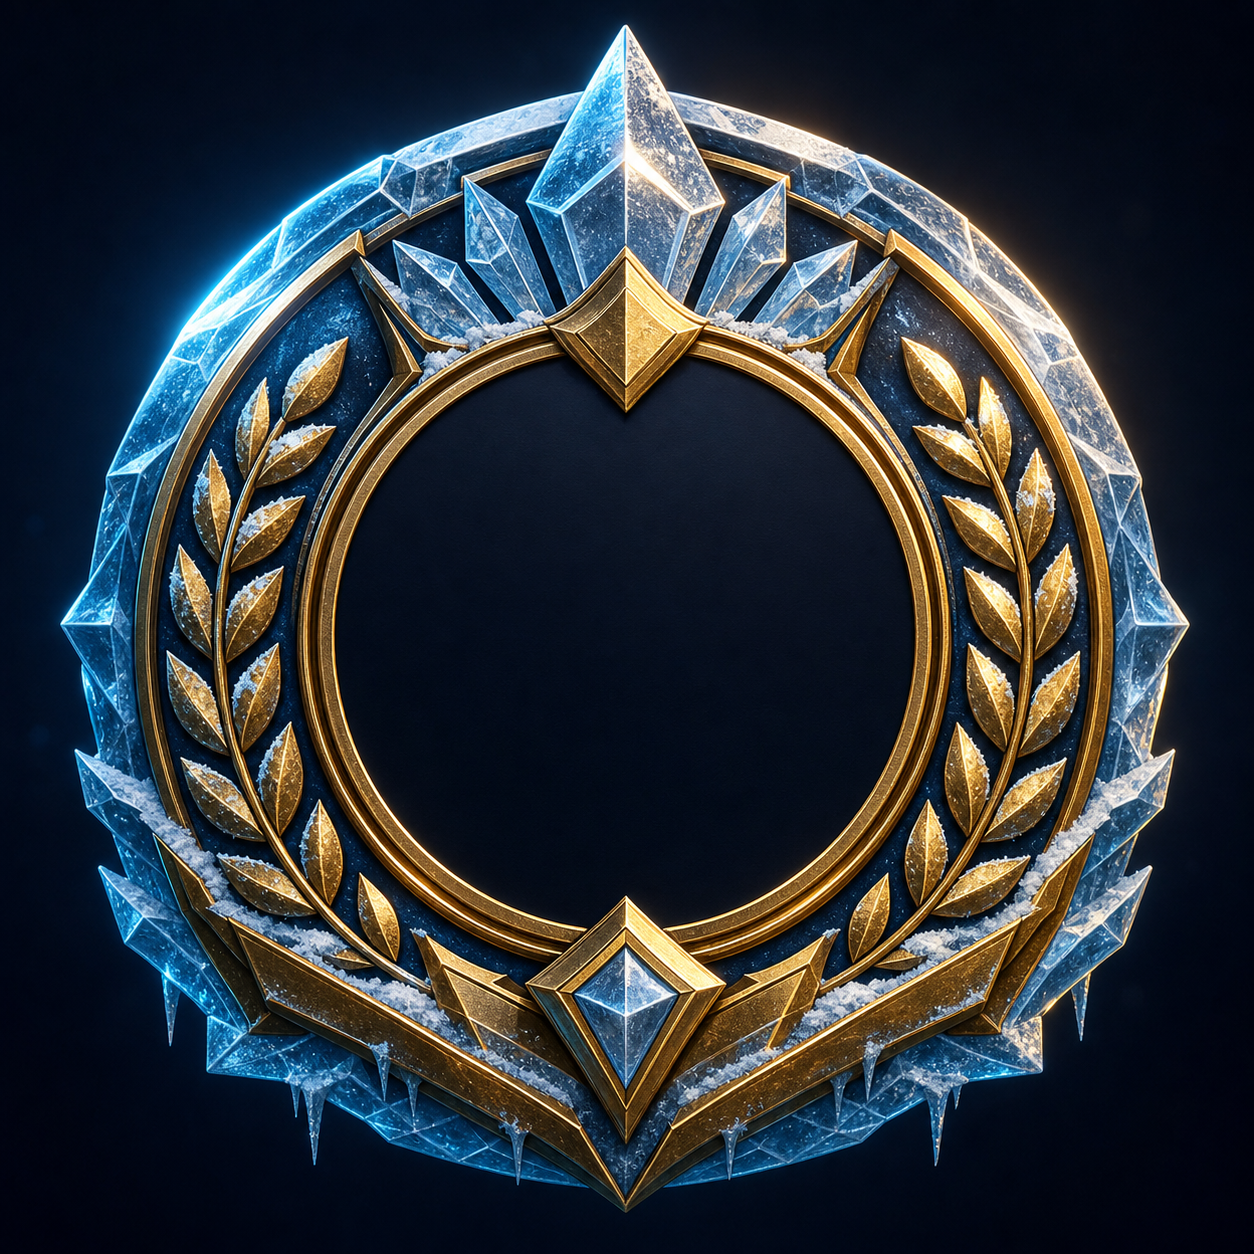
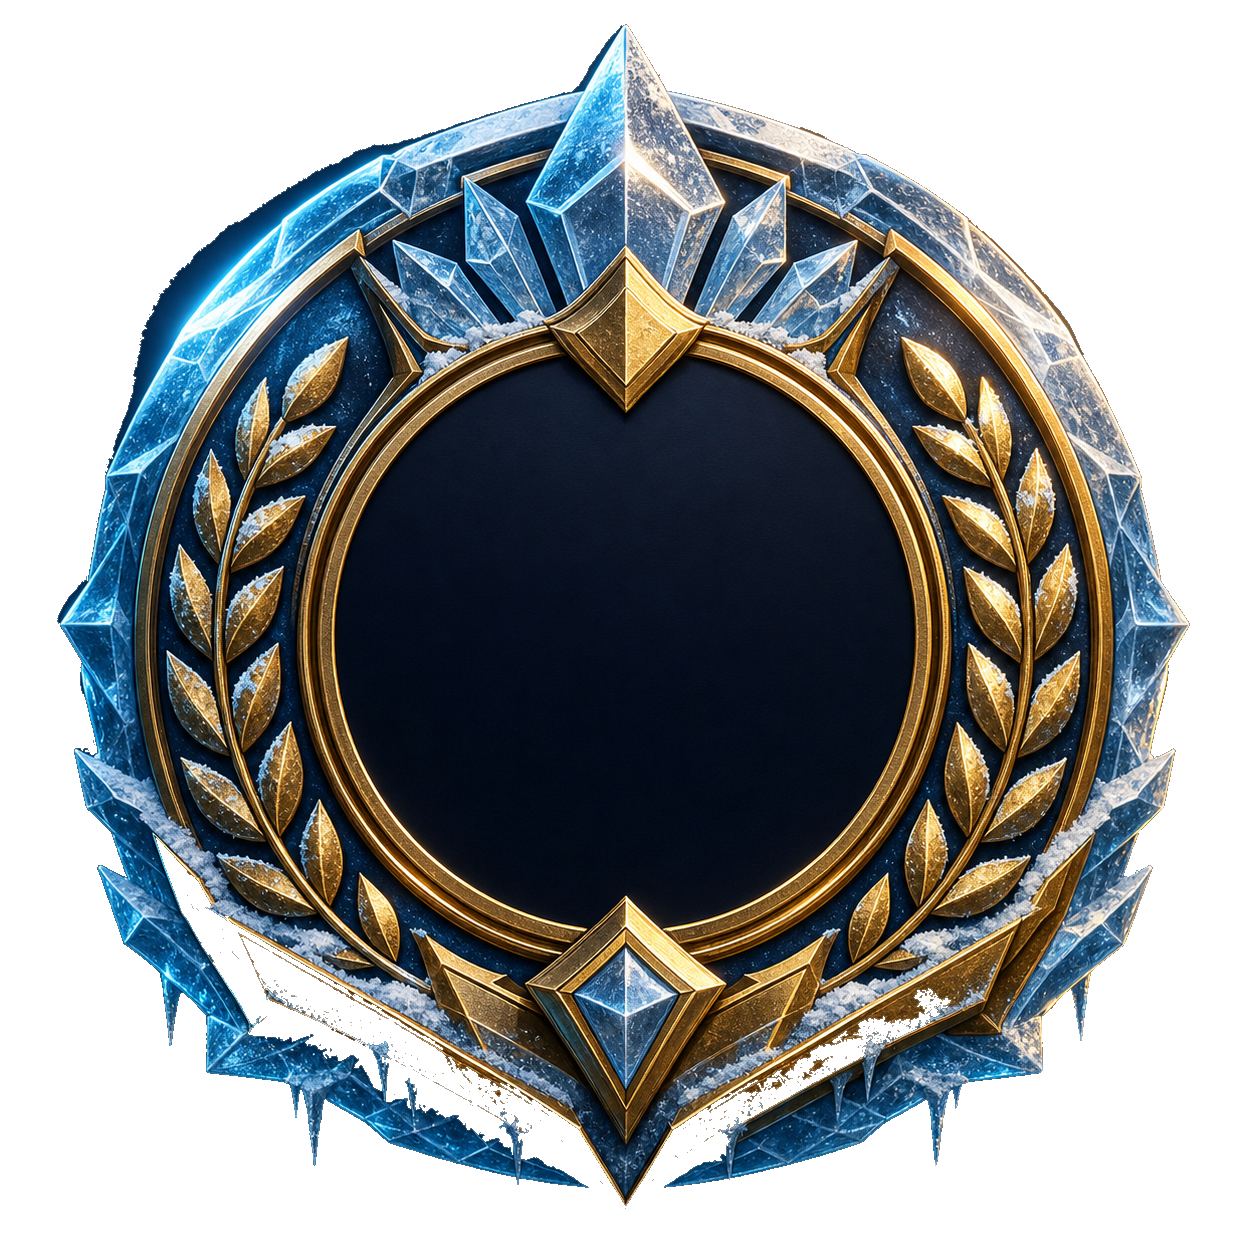
Polish public copy and medallion transparency

diff --git a/index.html b/index.html
@@ -3,10 +3,10 @@
   <head>
     <meta charset="utf-8" />
     <meta name="viewport" content="width=device-width, initial-scale=1" />
-    <title>Grab2Win | Wisconsin's Ice Climbers Specialist</title>
-    <meta
-      name="description"
-      content="A high-energy fan site celebrating Grab2Win, Wisconsin's Ice Climbers specialist and Melee Magazine Wisconsin Edition 2025 No. 1 debut."
+      <title>Grab2Win | Wisconsin's Ice Climbers Specialist</title>
+      <meta
+        name="description"
+        content="Celebrating Grab2Win, Wisconsin's Ice Climbers specialist and Melee Magazine Wisconsin Edition 2025 No. 1 debut."
     />
     <meta property="og:title" content="Grab2Win | Wisconsin's Ice Climbers Specialist" />
     <meta
@@ -30,7 +30,6 @@
         <a href="#rank">No. 1</a>
         <a href="#resume">Resume</a>
         <a href="#film">Film</a>
-        <a href="#community">Scene</a>
       </nav>
     </header>
 
@@ -76,8 +75,8 @@
           <h2 id="rank-title">Wisconsin's No. 1 debut.</h2>
           <p>
             Melee Magazine Wisconsin Edition 2025 declared Grab2Win No. 1 in
-            the state, giving the site a clear local headline to pair with the
-            public tournament record.
+            the state, pairing local recognition with a growing national
+            tournament record.
           </p>
         </div>
         <div class="magazine-layout">
@@ -98,7 +97,7 @@
               <strong>Ice Climbers</strong>
             </div>
             <div>
-              <span>Public wins list</span>
+              <span>Documented wins</span>
               <strong>Chango, DannyPhantom, Majersk, Peanutphobia</strong>
             </div>
           </div>
@@ -143,7 +142,7 @@
           <p class="eyebrow">Public Resume</p>
           <h2 id="resume-title">The bracket trail keeps expanding.</h2>
           <p>
-            This pass adds newer and deeper public mentions from SmashWiki,
+            Newer and deeper public mentions from SmashWiki,
             Liquipedia, EventHubs, Melee Stats, and start.gg-indexed brackets.
           </p>
         </div>
@@ -218,58 +217,16 @@
           <p class="eyebrow">Match Film</p>
           <h2 id="film-title">Put the punish game on the page.</h2>
           <p>
-            Verified Cream City Convergence 2025 VODs are embedded directly.
-            Riptide VOD cards remain linked until exact YouTube IDs are confirmed.
+            Verified Cream City Convergence 2025 and Riptide 2023 VODs are
+            embedded directly.
           </p>
         </div>
         <div class="video-grid" data-video-grid aria-live="polite"></div>
       </section>
-
-      <section class="section community" id="community" aria-labelledby="community-title">
-        <div class="community-copy">
-          <p class="eyebrow">Scene</p>
-          <h2 id="community-title">Competitive identity, community roots.</h2>
-          <p>
-            Smash notoriety is built in venue rooms, long drives, seeded pools,
-            friendlies, VOD review, and the names people remember after bracket.
-            Grab2Win has the rare combination a personal site needs: a clear tag,
-            a recognizable character, a Wisconsin story, and national receipts.
-          </p>
-        </div>
-        <div class="community-list" role="list">
-          <article role="listitem">
-            <h3>Wisconsin first</h3>
-            <p>Built around the state ranking and Midwest scene, not generic esports copy.</p>
-          </article>
-          <article role="listitem">
-            <h3>Travel log ready</h3>
-            <p>The design can absorb Tokyo photos, travel dates, and tournament captions next.</p>
-          </article>
-          <article role="listitem">
-            <h3>Video forward</h3>
-            <p>The match-film module supports real embeds, linked VODs, and future highlight reels.</p>
-          </article>
-        </div>
-      </section>
-
-      <section class="section sources" aria-labelledby="sources-title">
-        <div class="section-heading">
-          <p class="eyebrow">Receipts</p>
-          <h2 id="sources-title">Sources used in this pass.</h2>
-        </div>
-        <div class="source-row" aria-label="Source links">
-          <a href="https://www.ssbwiki.com/Smasher:Grab2Win">SmashWiki profile</a>
-          <a href="https://liquipedia.net/smash/Cream_City_Convergence/2024/Melee">Cream City 2024</a>
-          <a href="https://liquipedia.net/smash/Cream_City_Convergence/2025/Melee/Singles_Bracket">Cream City 2025 bracket</a>
-          <a href="https://meleestats.co/whens-melee-april-25-27/">Melee Stats Nouns Bowl listing</a>
-          <a href="https://www.eventhubs.com/news/2024/aug/23/cream-city-convergence-2024-results/">EventHubs Cream City results</a>
-          <a href="https://liquipedia.net/smash/Riptide/2023/Melee">Riptide 2023</a>
-        </div>
-      </section>
     </main>
 
     <footer class="site-footer">
-      <p>Grab2Win fan site concept. Super Smash Bros. and Ice Climbers are properties of Nintendo; this site uses original fan-made visuals and avoids official character art.</p>
+      <p>Independent tribute to Grab2Win. Super Smash Bros. and Ice Climbers are properties of Nintendo; this site uses original fan-made visuals and avoids official character art.</p>
     </footer>
 
     <script src="script.js"></script>

diff --git a/styles.css b/styles.css
@@ -271,8 +271,6 @@ code {
   aspect-ratio: 1;
   display: grid;
   place-items: center;
-  overflow: hidden;
-  border-radius: 50%;
   filter:
     drop-shadow(0 24px 60px rgba(0, 0, 0, 0.56))
     drop-shadow(0 0 30px rgba(51, 236, 255, 0.18));
@@ -357,8 +355,7 @@ code {
   margin-bottom: 2rem;
 }
 
-.section-heading h2,
-.community-copy h2 {
+.section-heading h2 {
   margin: 0;
   font-size: clamp(2.25rem, 5.6vw, 5.8rem);
   line-height: 0.92;
@@ -366,8 +363,7 @@ code {
   text-transform: uppercase;
 }
 
-.section-heading p,
-.community-copy p {
+.section-heading p {
   color: var(--muted);
   font-size: 1.06rem;
 }
@@ -389,8 +385,7 @@ code {
 .magazine-cover,
 .proof-stats,
 .feature-card,
-.video-card,
-.community-list article {
+.video-card {
   background: var(--panel);
   border: 1px solid var(--line);
   border-radius: 8px;
@@ -462,8 +457,7 @@ code {
 }
 
 .identity-grid,
-.video-grid,
-.community-list {
+.video-grid {
   display: grid;
   grid-template-columns: repeat(3, minmax(0, 1fr));
   gap: 1rem;
@@ -512,16 +506,14 @@ code {
 }
 
 .feature-card h3,
-.video-card h3,
-.community-list h3 {
+.video-card h3 {
   margin: 0 0 0.45rem;
   color: white;
   font-size: 1.22rem;
 }
 
 .feature-card p,
-.video-card p,
-.community-list p {
+.video-card p {
   margin: 0;
   color: var(--muted);
 }
@@ -670,44 +662,6 @@ code {
   font-weight: 850;
 }
 
-.community {
-  display: grid;
-  grid-template-columns: minmax(0, 0.8fr) minmax(18rem, 1fr);
-  gap: clamp(1.5rem, 5vw, 4rem);
-}
-
-.community-list article {
-  padding: 1.1rem;
-}
-
-.sources {
-  padding-top: 3rem;
-  background: linear-gradient(180deg, transparent, rgba(216, 251, 255, 0.04));
-}
-
-.source-row {
-  display: flex;
-  flex-wrap: wrap;
-  gap: 0.75rem;
-}
-
-.source-row a {
-  display: inline-flex;
-  min-height: 2.65rem;
-  align-items: center;
-  padding: 0.56rem 0.78rem;
-  color: var(--ice);
-  background: rgba(8, 15, 32, 0.62);
-  border: 1px solid var(--line);
-  border-radius: 8px;
-  text-decoration: none;
-}
-
-.source-row a:hover {
-  border-color: rgba(51, 236, 255, 0.65);
-  box-shadow: 0 0 24px rgba(51, 236, 255, 0.16);
-}
-
 .site-footer {
   padding: 2rem clamp(1rem, 5vw, 4rem);
   color: var(--muted);
@@ -749,7 +703,6 @@ code {
 @media (max-width: 980px) {
   .hero,
   .magazine-layout,
-  .community,
   .stat-wall,
   .timeline {
     grid-template-columns: 1fr;
@@ -761,8 +714,7 @@ code {
   }
 
   .identity-grid,
-  .video-grid,
-  .community-list {
+  .video-grid {
     grid-template-columns: 1fr;
   }
 }
@@ -796,13 +748,11 @@ code {
     font-size: clamp(3.85rem, 17vw, 5.8rem);
   }
 
-  .button,
-  .source-row a {
+  .button {
     width: 100%;
   }
 
-  .hero-actions,
-  .source-row {
+  .hero-actions {
     flex-direction: column;
   }
 
